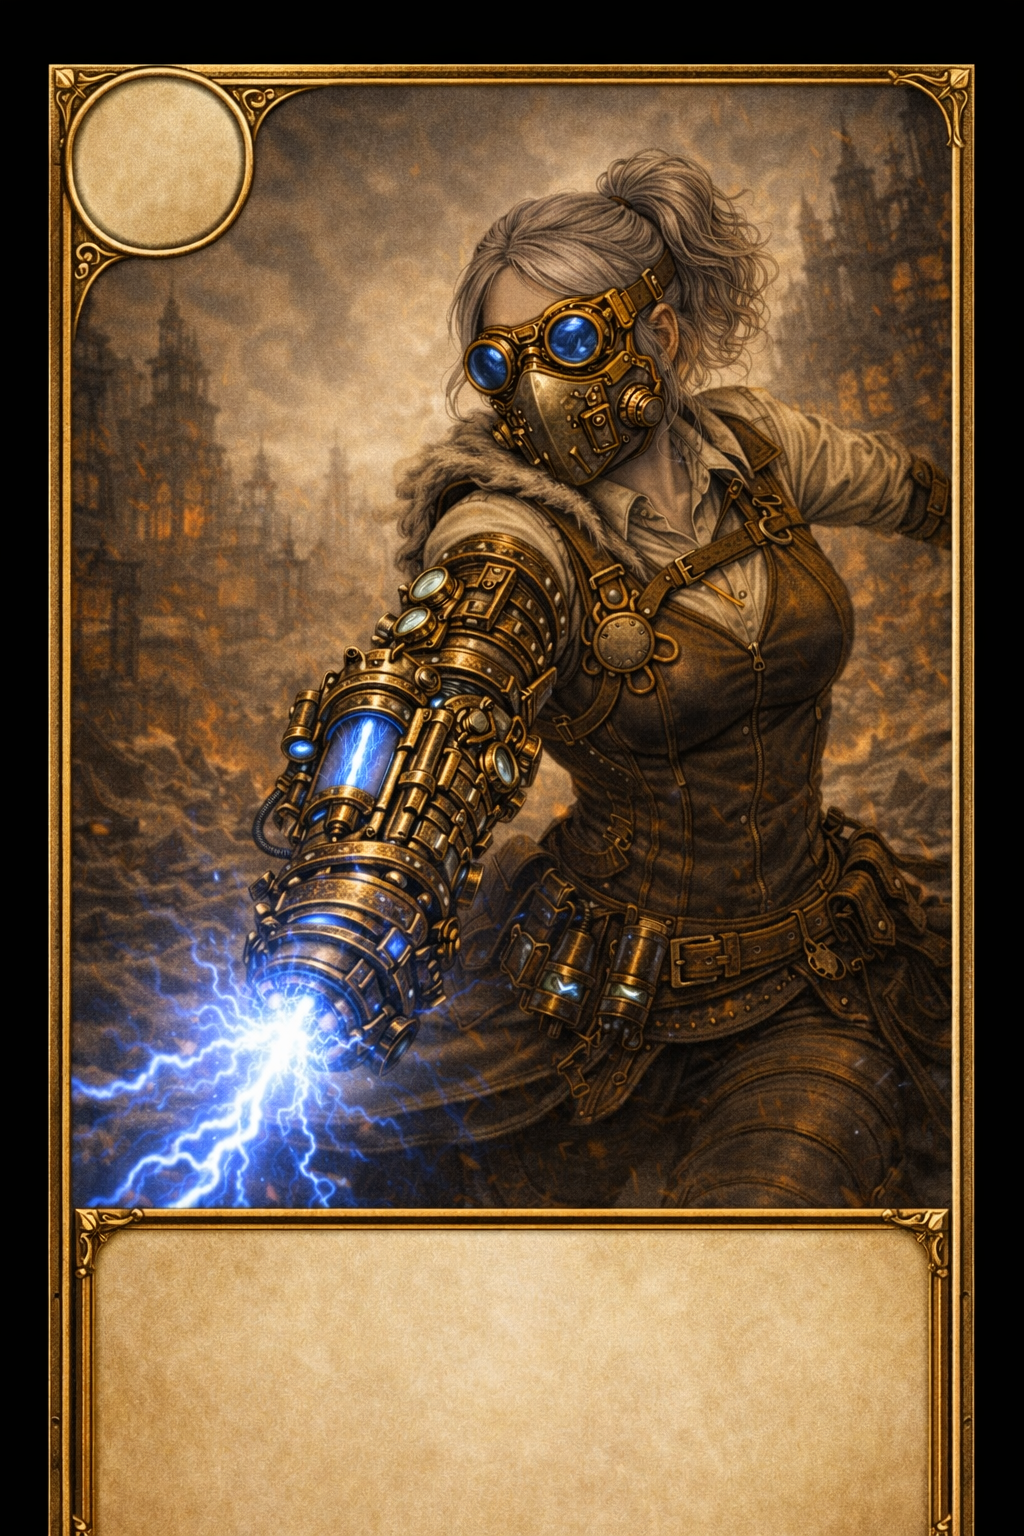
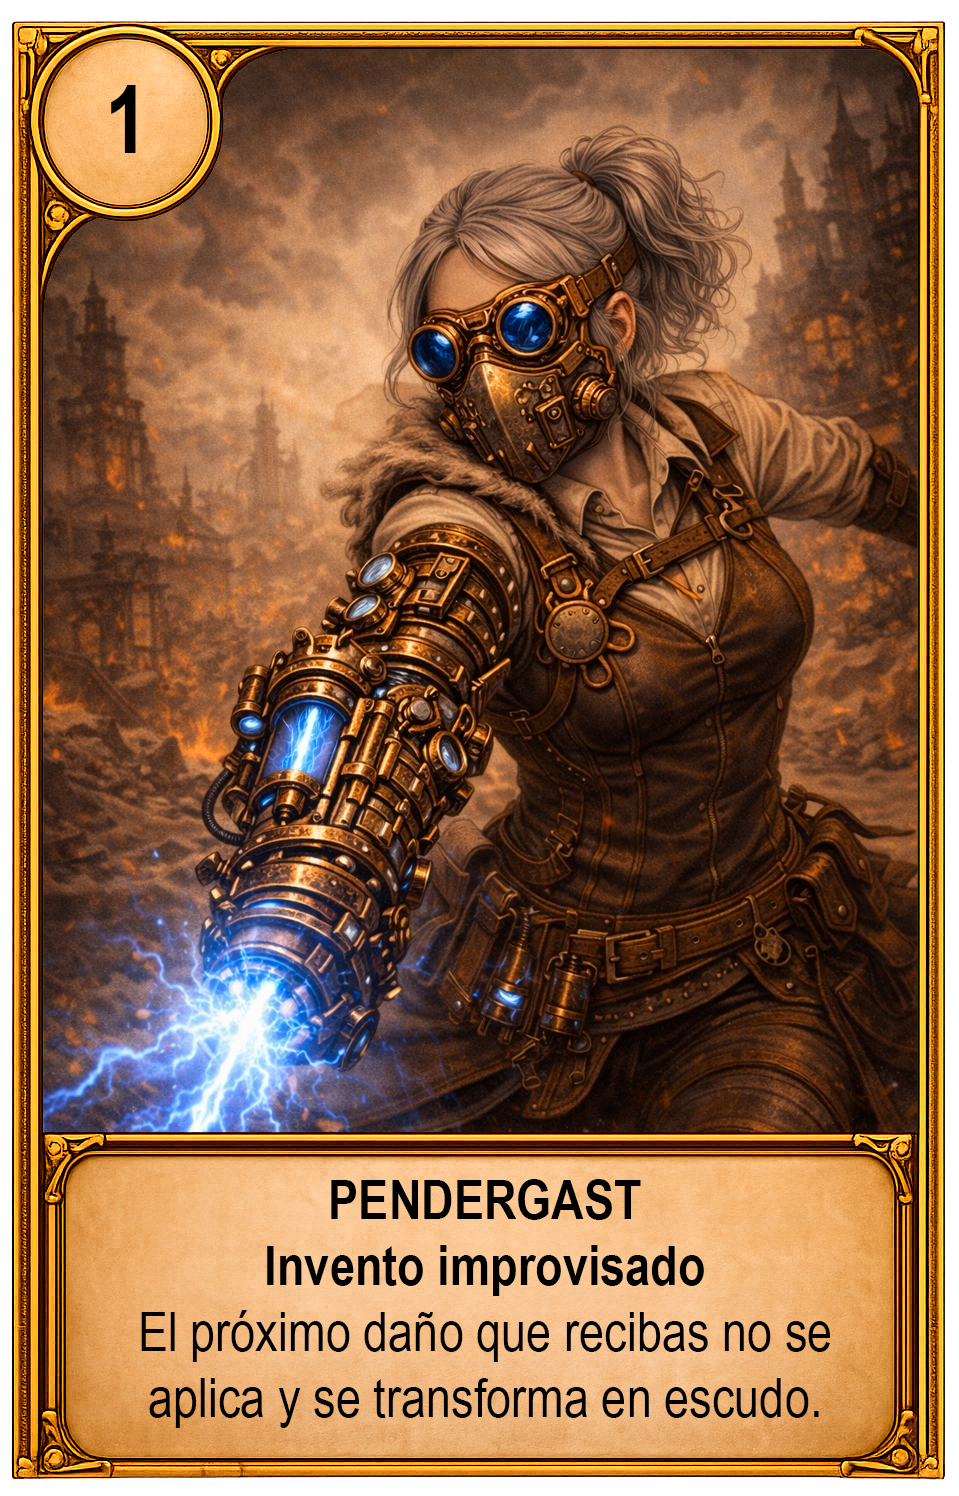
Añade habilidad de Pendergast y escudo hasta 99

diff --git a/script.js b/script.js
@@ -163,7 +163,7 @@ document.addEventListener("DOMContentLoaded", () => {
     { id: "card_pendergast", charId: "c6", name: "Pendergast", img: "images/Pendergast.PNG", text: "Carta de apoyo: dinamiza equipos y formación." }
   ];
   const ARCADE_BATTLE_PLAYER_MAX_HP = 20;
-  const ARCADE_BATTLE_PLAYER_MAX_SHIELD = 20;
+  const ARCADE_BATTLE_PLAYER_MAX_SHIELD = 99;
   const ARCADE_BATTLE_COST_MAX = 3;
   const ARCADE_BATTLE_START_HAND = 5;
   const ARCADE_BATTLE_DRAW_PER_TURN = 1;
@@ -178,7 +178,7 @@ document.addEventListener("DOMContentLoaded", () => {
     { id: "ab_winchester", name: "Winchester", img: "cartas/cartawinchester.PNG", cost: 1, damage: 8, level: 1, abilityName: "Rayo fulminante" },
     { id: "ab_jane", name: "Jane", img: "cartas/cartajane.PNG", cost: 2, damage: 0, level: 1, abilityName: "Cubriendo la retaguardia", shieldGain: 5 },
     { id: "ab_lisa", name: "Lisa", img: "cartas/cartalisa.PNG", cost: 1, damage: 0, level: 1, abilityName: "Sanadora de batalla", healAmount: 15 },
-    { id: "ab_pendergast", name: "Pendergast", img: "cartas/cartapendergast.PNG", cost: 1, damage: 5, level: 1, abilityName: "Orden ofensiva" },
+    { id: "ab_pendergast", name: "Pendergast", img: "cartas/cartapendergast.PNG", cost: 1, damage: 0, level: 1, abilityName: "Invento improvisado" },
     { id: "ab_risko", name: "Risko", img: "cartas/cartarisko.PNG", cost: 2, damage: 0, level: 1, abilityName: "Ráfaga de distracción", shieldGain: 5 }
   ];
 
@@ -3877,7 +3877,7 @@ document.addEventListener("DOMContentLoaded", () => {
 
   function arcadeBattleCardNeedsEnemyTarget(cardDef) {
     const id = String(cardDef?.id || "");
-    return !(id === "ab_camus" || id === "ab_winchester" || id === "ab_jane" || id === "ab_lisa");
+    return !(id === "ab_camus" || id === "ab_winchester" || id === "ab_jane" || id === "ab_lisa" || id === "ab_pendergast");
   }
 
   function createArcadeBattleEnemy(id, name) {
@@ -3904,7 +3904,8 @@ document.addEventListener("DOMContentLoaded", () => {
         shield: 0,
         maxShield: ARCADE_BATTLE_PLAYER_MAX_SHIELD,
         cost: ARCADE_BATTLE_COST_MAX,
-        costMax: ARCADE_BATTLE_COST_MAX
+        costMax: ARCADE_BATTLE_COST_MAX,
+        nextDamageToShieldCharges: 0
       },
       enemyTurnResolving: false,
       ongoingEffects: [],
@@ -3958,6 +3959,26 @@ document.addEventListener("DOMContentLoaded", () => {
     const hpDamage = Math.min(Math.max(0, unit.hp || 0), remaining);
     unit.hp = Math.max(0, (unit.hp || 0) - hpDamage);
     return { shieldAbsorb, hpDamage, totalDamage: shieldAbsorb + hpDamage };
+  }
+
+  function applyArcadeBattleDamageToPlayer(damage) {
+    if (!arcadeBattleState?.player) return { convertedToShield: false, amount: 0 };
+    const incoming = Math.max(0, Number(damage) || 0);
+    if (incoming <= 0) return { convertedToShield: false, amount: 0 };
+    const charges = Math.max(0, Number(arcadeBattleState.player.nextDamageToShieldCharges) || 0);
+    if (charges > 0) {
+      arcadeBattleState.player.nextDamageToShieldCharges = charges - 1;
+      arcadeBattleState.player.shield = clamp(
+        (arcadeBattleState.player.shield || 0) + incoming,
+        0,
+        arcadeBattleState.player.maxShield || ARCADE_BATTLE_PLAYER_MAX_SHIELD
+      );
+      triggerArcadeBattlePlayerHitFx("shield");
+      return { convertedToShield: true, amount: incoming };
+    }
+    applyDamageToBattleUnit(arcadeBattleState.player, incoming);
+    triggerArcadeBattlePlayerHitFx("damage");
+    return { convertedToShield: false, amount: incoming };
   }
 
   function getArcadeBattleHandCardByInstance(instanceId) {
@@ -4213,10 +4234,17 @@ document.addEventListener("DOMContentLoaded", () => {
     }
     if (arcadeBattleEffects) {
       const effects = Array.isArray(state?.ongoingEffects) ? state.ongoingEffects.filter((fx) => (fx?.remainingTurns || 0) > 0) : [];
+      const guardCharges = Math.max(0, Number(state?.player?.nextDamageToShieldCharges) || 0);
+      if (guardCharges > 0) {
+        effects.push({ type: "pendergast_guard", charges: guardCharges });
+      }
       arcadeBattleEffects.classList.toggle("hidden", effects.length < 1);
       arcadeBattleEffects.innerHTML = effects.map((fx) => {
         if (fx.type === "camus_explosion") {
           return `<span class="arcade-battle-effect-chip">Explosión de energía <span class="turns">${fx.remainingTurns} turno${fx.remainingTurns === 1 ? "" : "s"}</span></span>`;
+        }
+        if (fx.type === "pendergast_guard") {
+          return `<span class="arcade-battle-effect-chip">Invento improvisado <span class="turns">${fx.charges} carga${fx.charges === 1 ? "" : "s"}</span></span>`;
         }
         return `<span class="arcade-battle-effect-chip">Efecto activo <span class="turns">${fx.remainingTurns} turno${fx.remainingTurns === 1 ? "" : "s"}</span></span>`;
       }).join("");
@@ -4225,7 +4253,7 @@ document.addEventListener("DOMContentLoaded", () => {
     const playerHpPct = player ? ((player.hp / Math.max(1, player.maxHp)) * 100) : 0;
     const playerShieldPct = player ? ((player.shield / Math.max(1, player.maxShield)) * 100) : 0;
     if (arcadeBattlePlayerHpText) arcadeBattlePlayerHpText.textContent = player ? `${player.hp}/${player.maxHp}` : "0/0";
-    if (arcadeBattlePlayerShieldText) arcadeBattlePlayerShieldText.textContent = player ? `${player.shield}/${player.maxShield}` : "0/0";
+    if (arcadeBattlePlayerShieldText) arcadeBattlePlayerShieldText.textContent = player ? String(player.shield) : "0";
     if (arcadeBattlePlayerHpFill) arcadeBattlePlayerHpFill.style.width = `${clamp(playerHpPct, 0, 100)}%`;
     if (arcadeBattlePlayerShieldFill) arcadeBattlePlayerShieldFill.style.width = `${clamp(playerShieldPct, 0, 100)}%`;
     if (arcadeBattleCostText) arcadeBattleCostText.textContent = player ? `${player.cost}/${player.costMax}` : "0/0";
@@ -4396,6 +4424,8 @@ document.addEventListener("DOMContentLoaded", () => {
         0,
         arcadeBattleState.player.maxHp || ARCADE_BATTLE_PLAYER_MAX_HP
       );
+    } else if (cardDef.id === "ab_pendergast") {
+      arcadeBattleState.player.nextDamageToShieldCharges = Math.max(0, Number(arcadeBattleState.player.nextDamageToShieldCharges) || 0) + 1;
     } else if (cardDef.id === "ab_risko") {
       const dealtDamage = cardLevel;
       if (!enemy) return false;
@@ -4460,9 +4490,12 @@ document.addEventListener("DOMContentLoaded", () => {
           renderArcadeBattleMode();
           await waitArcadeBattleStep();
 
-          applyDamageToBattleUnit(arcadeBattleState.player, ARCADE_BATTLE_ENEMY_ATTACK);
-          triggerArcadeBattlePlayerHitFx("damage");
-          setArcadeBattleStatus(`${enemy.name} te hizo ${ARCADE_BATTLE_ENEMY_ATTACK} de daño.`);
+          const damageResult = applyArcadeBattleDamageToPlayer(ARCADE_BATTLE_ENEMY_ATTACK);
+          if (damageResult.convertedToShield) {
+            setArcadeBattleStatus(`${enemy.name} atacó, pero el daño se transformó en ${damageResult.amount} de escudo.`);
+          } else {
+            setArcadeBattleStatus(`${enemy.name} te hizo ${ARCADE_BATTLE_ENEMY_ATTACK} de daño.`);
+          }
           renderArcadeBattleMode();
           await waitArcadeBattleStep();
         } else {

diff --git a/index.html b/index.html
@@ -171,7 +171,7 @@ Sin existencias. Renovaremos la tienda pronto
 <div class="arcade-battle-bar"><div class="arcade-battle-bar-fill hp" id="arcadeBattlePlayerHpFill"></div></div>
 </div>
 <div class="arcade-battle-meter">
-<div class="arcade-battle-meter-label"><span>Escudo</span><span id="arcadeBattlePlayerShieldText">0/20</span></div>
+<div class="arcade-battle-meter-label"><span>Escudo</span><span id="arcadeBattlePlayerShieldText">0</span></div>
 <div class="arcade-battle-bar"><div class="arcade-battle-bar-fill shield" id="arcadeBattlePlayerShieldFill"></div></div>
 </div>
 <div class="arcade-battle-cost-inline">
